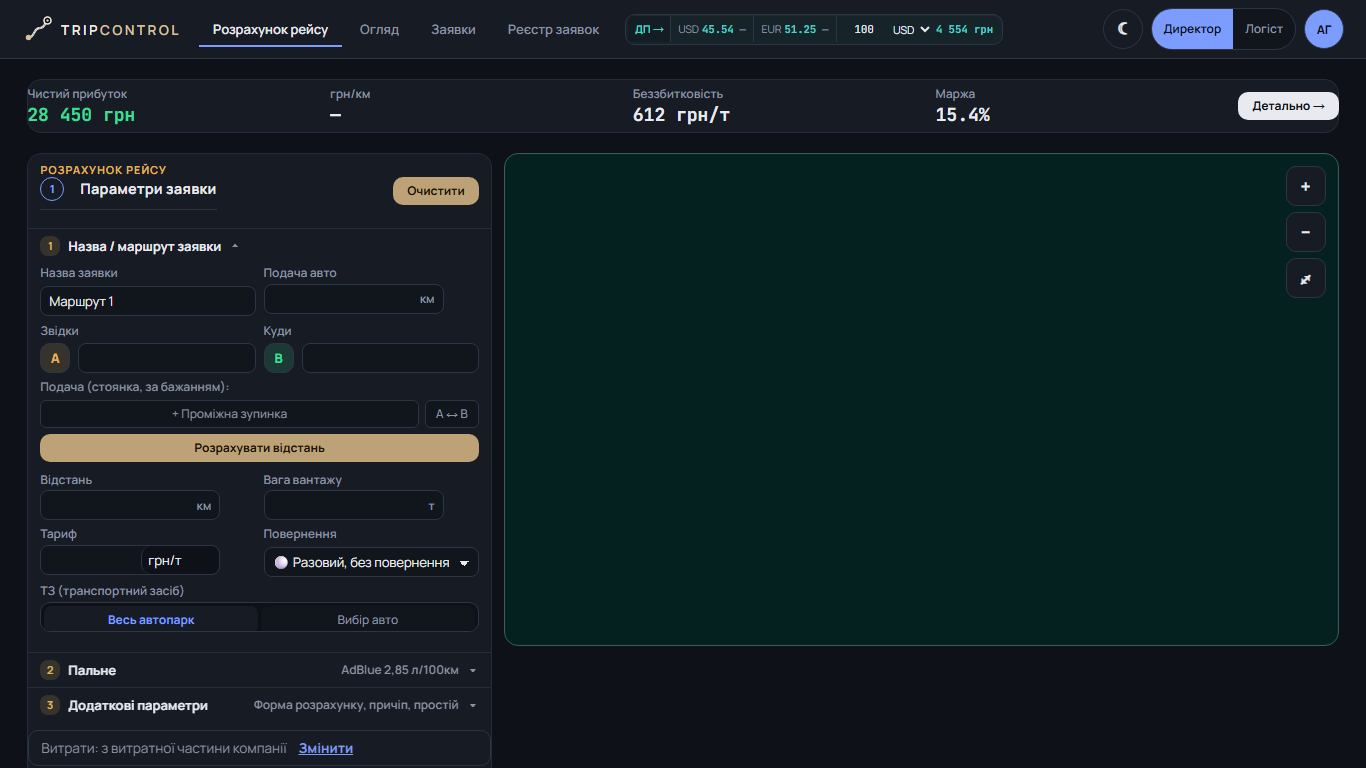
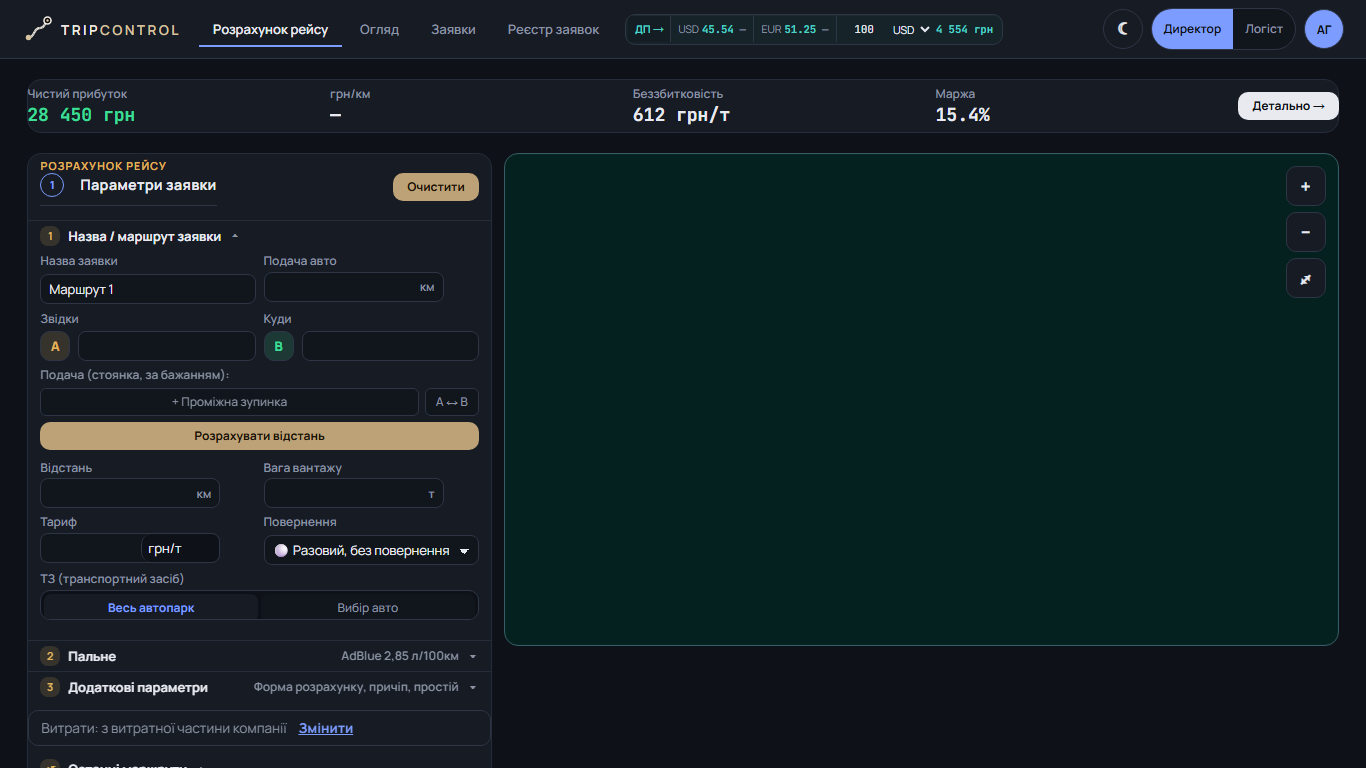
Розрахунок рейсу (сайт): компактний демо-стан, блок TC-COMPACT як на main, скріни
- index.html: банер першого запуску — сітка 2×2 (текст і «Підставити демо-рейс», під ним статуси і «Відкрити кабінет», закрити в куті); демо-підказка і шапки стиснуті; крок 1 у демо на 1366×768 без скролу
- блок TC-COMPACT побайтово як на main (прибрано зайвий порожній рядок)
- тест демо-стану (light і dark), 390 без h-скролу
- скріни: видалено дублікати before 1366, додано демо-стан

diff --git a/index.html b/index.html
@@ -4465,8 +4465,24 @@
                 position: relative; top: auto; height: 45vh !important; min-height: 320px !important;
             }
         }
-
         /*TC-COMPACT-END*/
+        /* Демо-стан «Розрахунку рейсу» (без оплати): банер першого запуску — компактна сітка 2×2 (рядок: текст і дія «Підставити демо-рейс»; під ним статуси
+           і «Відкрити кабінет»), закрити — у куті; демо-підказка стиснута. Зміст не прибрано. Лише від 901px і лише в розрахунку рейсу; токени тем, без нових кольорів. */
+        @media (min-width: 901px) {
+            body.layout-studio[data-theme][data-studio-view="calc"] #tc-op > #onboard-banner { align-items: flex-start; gap: 8px; padding: 6px 6px 6px 12px; font-size: 12px; line-height: 1.3; }
+            body.layout-studio[data-theme][data-studio-view="calc"] #tc-op > #onboard-banner .hint-text { display: grid; grid-template-columns: minmax(0, 1fr) auto; align-items: center; gap: 4px 10px; }
+            body.layout-studio[data-theme][data-studio-view="calc"] #tc-op > #onboard-banner .hint-text > b { grid-area: 1 / 1; font-size: 12px; white-space: nowrap; overflow: hidden; text-overflow: ellipsis; }
+            body.layout-studio[data-theme][data-studio-view="calc"] #tc-op > #onboard-banner .hint-text > div:not(.setup-list) { display: contents !important; }
+            body.layout-studio[data-theme][data-studio-view="calc"] #tc-op > #onboard-banner .btn { grid-area: 1 / 2; justify-self: end; min-height: 24px; height: 24px; padding: 0 10px !important; font-size: 12px; white-space: nowrap; }
+            body.layout-studio[data-theme][data-studio-view="calc"] #tc-op > #onboard-banner .setup-list { grid-area: 2 / 1 / 3 / 3; max-width: calc(100% - 104px); margin: 0; gap: 2px; flex-wrap: nowrap; min-width: 0; overflow: hidden; } /* під «Відкрити кабінет» лишається вільне місце в другій колонці */
+            body.layout-studio[data-theme][data-studio-view="calc"] #tc-op > #onboard-banner .link-btn { grid-area: 2 / 2; justify-self: end; font-size: 12px; white-space: nowrap; }
+            body.layout-studio[data-theme][data-studio-view="calc"] #tc-op > #onboard-banner .setup-item { padding: 0 4px; border-color: transparent; font-size: 11px; line-height: 16px; white-space: nowrap; }
+            body.layout-studio[data-theme][data-studio-view="calc"] #tc-op > #onboard-banner .hint-close { width: 24px; height: 24px; margin: 0; }
+            body.layout-studio[data-theme][data-studio-view="calc"] #tc-op #tc-demo-fields-note { padding: 6px 10px !important; margin-bottom: 0 !important; font-size: 12px !important; line-height: 1.35 !important; }
+            body.layout-studio[data-theme][data-studio-view="calc"] #tc-op #tc-demo-fields-note > div { display: inline; margin: 0 4px 0 0 !important; }
+            body.layout-studio[data-theme][data-studio-view="calc"] #tc-op .tc-panel-head { padding-block: 4px; }
+            body.layout-studio[data-theme][data-studio-view="calc"] #tc-op > .tc-acc .tc-acc-head { min-height: 30px; padding-block: 4px; }
+        }
         /* Телефон і вузький екран (≤900px): карта ≈40vh (раніше 260px з правила вище). Поля 40px / 16px і одна колонка дає сайтова мобільна версія. */
         @media (max-width: 900px) {
             body.layout-studio[data-theme][data-studio-view="calc"]:not([data-calc-detail="1"]) #studio-right > .tc-map-frame {
